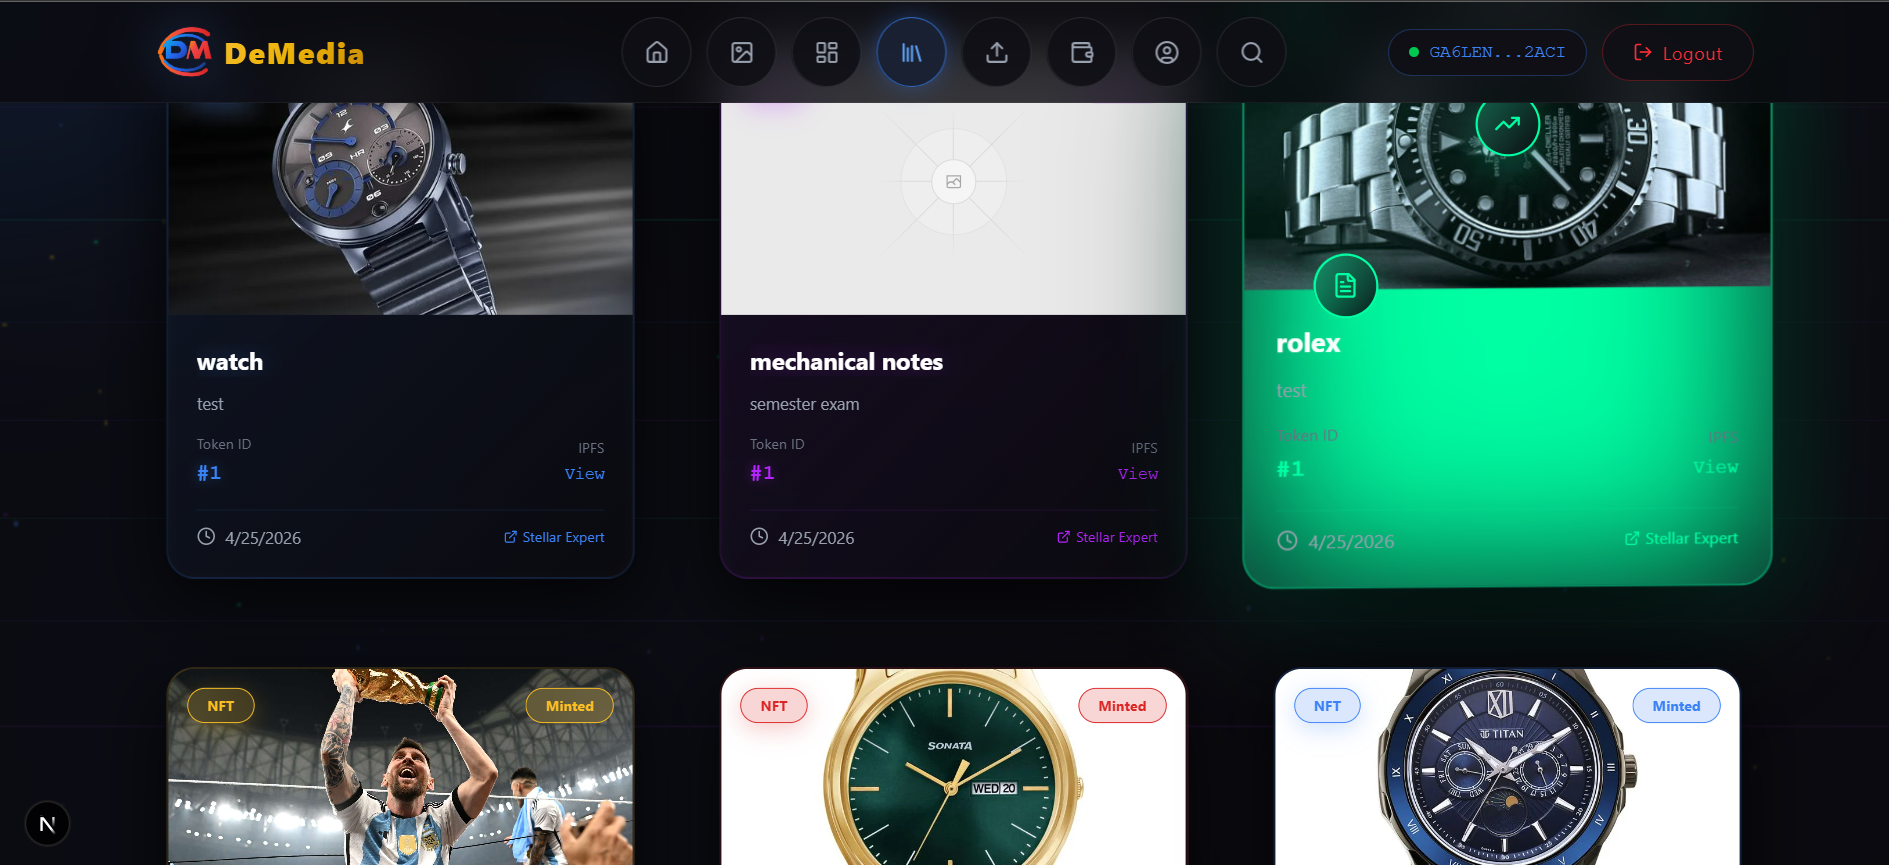
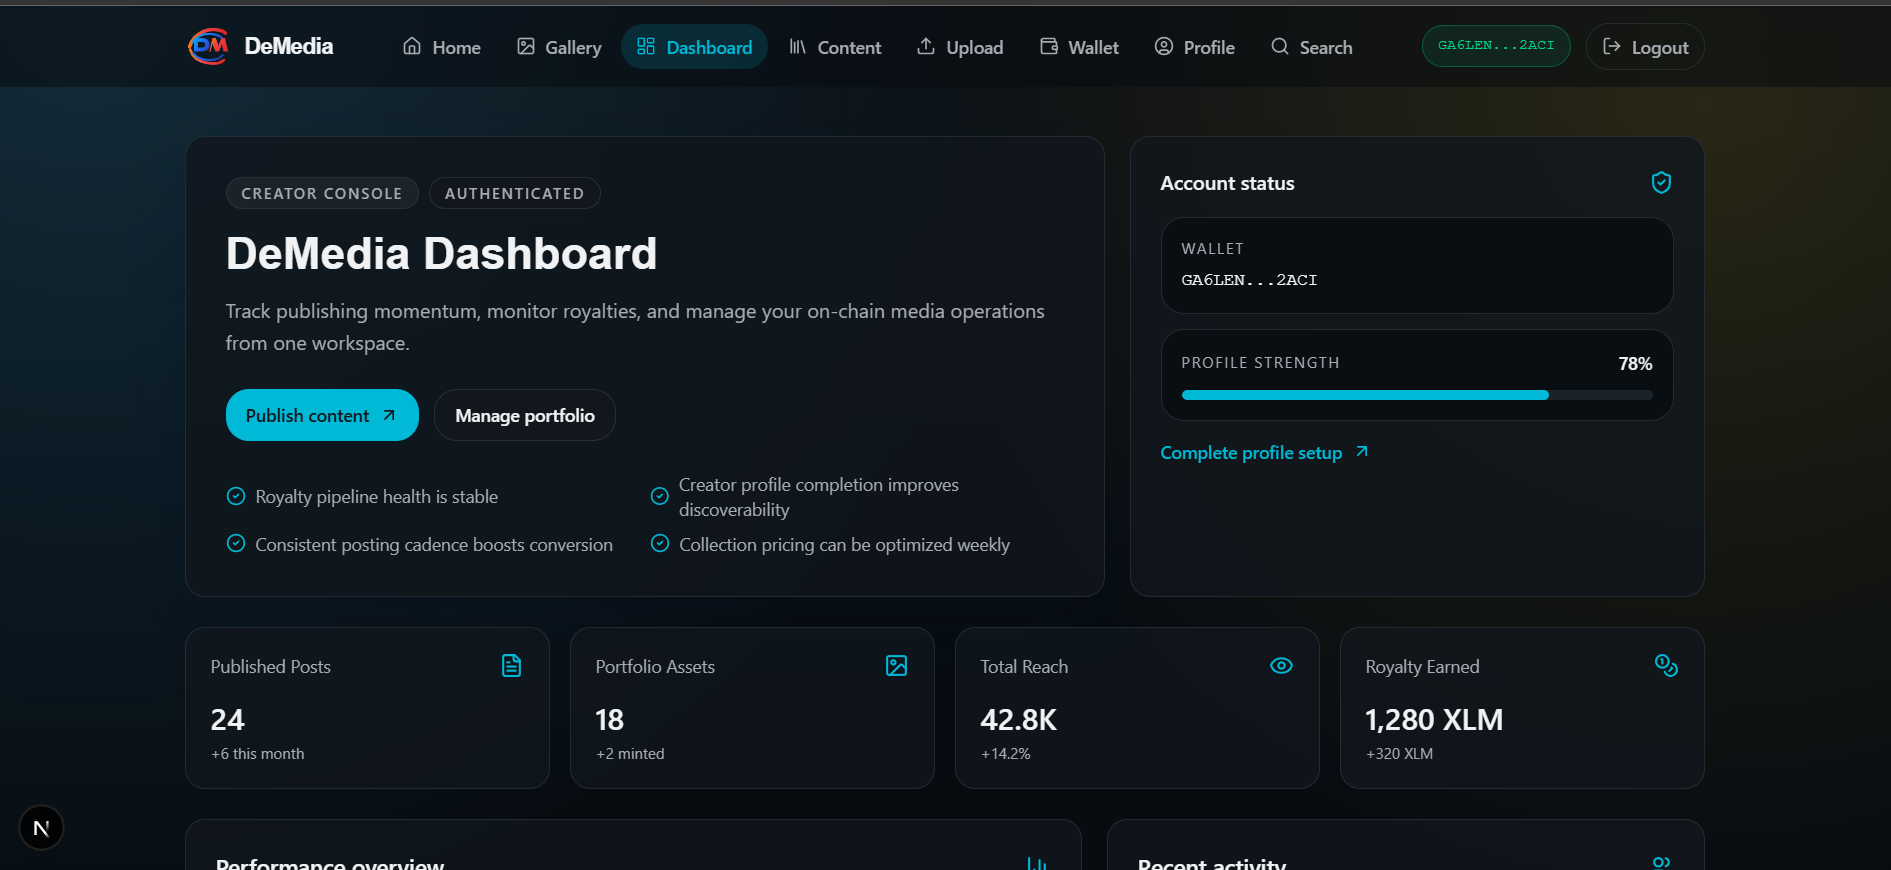
readme updated with scrrenshots

diff --git a/README.md b/README.md
@@ -21,33 +21,20 @@ https://www.youtube.com/watch?v=hcs871xpv-E
 
 ## UI Screenshots
 
-### Latest UI Refresh (New)
-
-### 1. Landing Page - Production Hero (New)
-![Landing Page Hero New](docs/screenshots/homepage-hero-new.png)
-
-### 2. Gallery - Updated Experience (New)
-![Gallery Updated New](docs/screenshots/gallery-grid-new.png)
-
-### 3. Dashboard - Updated Creator Console (New)
-![Dashboard Updated New](docs/screenshots/dashboard-overview-new.png)
-
-### Existing Screens (Previous)
-
 ### 1. Landing Page - Hero Section
 ![Landing Page Hero](docs/screenshots/homepage-hero.png)
+Source: `Screenshot 2026-04-30 174136.png`
 
 ### 2. Dashboard - Creator Overview
 ![Dashboard Overview](docs/screenshots/dashboard-overview.png)
+Source: `Screenshot 2026-04-30 174203.png`
 
 ### 3. Gallery - NFT Grid View
 ![Gallery Grid](docs/screenshots/gallery-grid.png)
+Source: `Screenshot 2026-04-30 174233.png`
 
 ### 4. Wallet - Digital Vault
 ![Wallet Digital Vault](docs/screenshots/wallet-vault.png)
-
-### 5. Mobile Responsive View
-<img width="671" height="1280" alt="Mobile Responsive View" src="https://github.com/user-attachments/assets/a82ad326-d3dd-4dee-bc60-d491b91492f5" />
 
 ### User Wallet Addresses
 